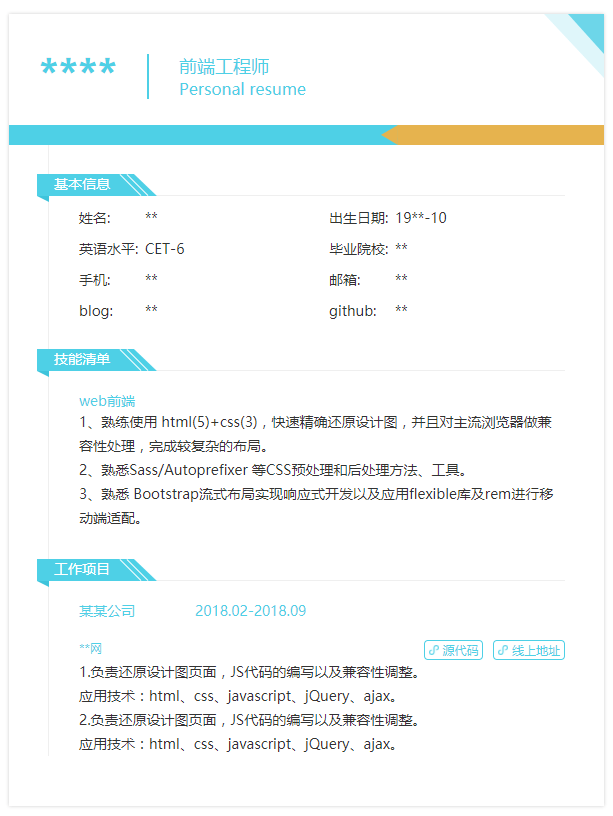
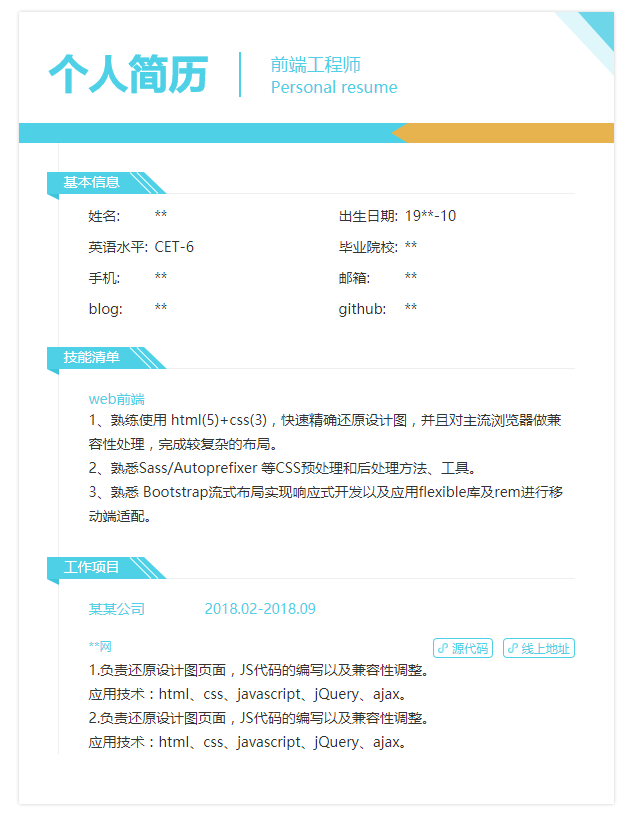
add font

diff --git a/src/css/style.css b/src/css/style.css
@@ -16,6 +16,10 @@ h1, h2, h3, h4, h5, dt, dd, p {
 body {
   font-family: 微软雅黑, 'WenQuanYi Micro Hei', STHeiti, SimSun, sans-serif; }
 
+@font-face {
+  font-family: 方正兰亭中黑;
+  src: url("../font/方正兰亭中黑_GBK.ttf"); }
+
 .container {
   box-shadow: 0 0 4px #ccc;
   width: 595px;
@@ -33,10 +37,10 @@ body {
         margin-top: 40px; }
         .container header .headerTop .headerTopLeft .title {
           height: 40px;
+          font-family: 方正兰亭中黑,微软雅黑;
           font-size: 40px;
           padding: 0 30px;
           float: left;
-          margin-top: -8px;
           font-weight: bold; }
         .container header .headerTop .headerTopLeft .describe {
           float: left;

diff --git a/src/scss/style.scss b/src/scss/style.scss
@@ -20,6 +20,10 @@ h1, h2, h3, h4, h5, dt, dd, p {
 body {
   font-family: 微软雅黑, 'WenQuanYi Micro Hei', STHeiti, SimSun, sans-serif;
 }
+@font-face {
+  font-family: 方正兰亭中黑;
+  src: url("../font/方正兰亭中黑_GBK.ttf");
+}
 
 .container{
   box-shadow: 0 0 4px #ccc;
@@ -38,10 +42,10 @@ body {
             margin-top: 40px;
             .title{
                 height:40px;
+                font-family: 方正兰亭中黑,微软雅黑;
                 font-size: 40px;
                 padding:0 30px;
                 float: left;
-                margin-top: -8px;
                 font-weight: bold;
             }
             .describe{

diff --git a/index.html b/index.html
@@ -14,7 +14,7 @@
             <header>
                 <div class="headerTop">
                     <div class="headerTopLeft">
-                        <div class="title">****</div>
+                        <div class="title">个人简历</div>
                         <div class="describe">
                             <div class="position">前端工程师</div>
                             <div class="english">Personal resume</div>
